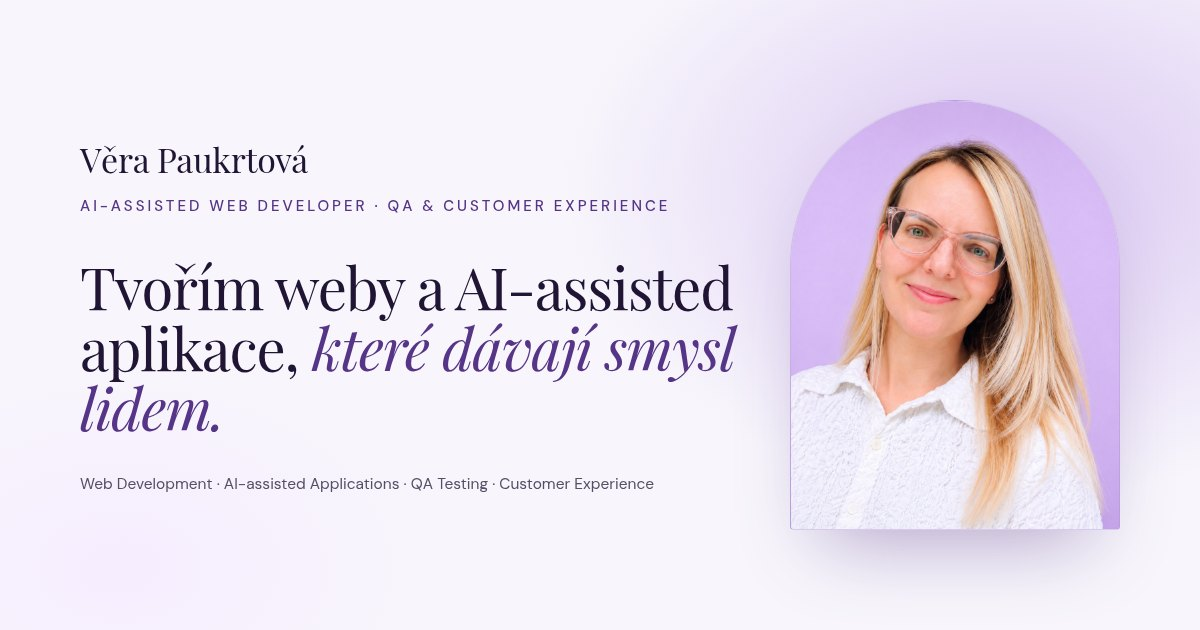
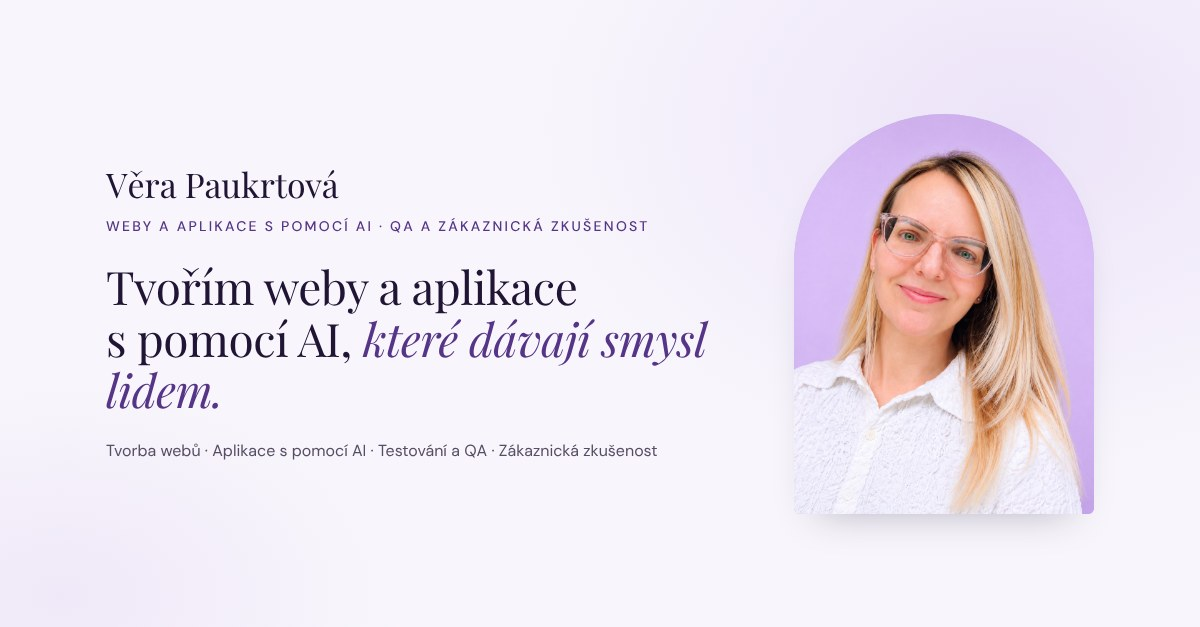
feat: upcoming section for Kompleto, Czech OG image and meta, README case study, dependency fixes
- move Kompleto under a new 'Připravuju' heading, without the status badge
- og:image 1200x627 with content in the safe zone, Czech title and description
- README rewritten as a case study
- bun audit fix (in-range updates only)

Claude-Session: https://claude.ai/code/session_01QY5tjJw5qp2WhKUxUQ9XU1

diff --git a/src/components/site/Projects.tsx b/src/components/site/Projects.tsx
@@ -63,7 +63,7 @@ function Preview({ project }: { project: Project }) {
           <span aria-hidden className="size-2.5 rounded-full bg-lilac" />
           <span aria-hidden className="size-2.5 rounded-full bg-line" />
           <span className="ml-3 truncate text-xs text-muted-foreground">
-            {project.url ? project.url.replace(/^https?:\/\//, "") : project.statusLabel}
+            {project.url ? project.url.replace(/^https?:\/\//, "") : project.name}
           </span>
         </div>
         <div className="aspect-[16/10] overflow-hidden">
@@ -118,20 +118,18 @@ function ProjectCard({ project, index }: { project: Project; index: number }) {
       </div>
 
       <div className={cn("lg:col-span-5", flip && "lg:order-1")}>
-        <div className="flex flex-wrap items-center gap-3">
-          <span className="font-display text-sm text-primary italic">{String(index + 1).padStart(2, "0")}</span>
-          <span
-            className={cn(
-              "inline-flex items-center gap-1.5 rounded-full px-2.5 py-1 text-xs font-medium",
-              concept ? "border border-dashed border-primary/50 text-primary" : "bg-lilac text-primary",
-            )}
-          >
-            {!concept && <span className="size-1.5 rounded-full bg-violet" aria-hidden />}
-            {project.statusLabel}
-          </span>
-        </div>
+        {/* Upcoming projects sit under their own heading, so they get no number or status badge. */}
+        {!concept && (
+          <div className="flex flex-wrap items-center gap-3">
+            <span className="font-display text-sm text-primary italic">{String(index + 1).padStart(2, "0")}</span>
+            <span className="inline-flex items-center gap-1.5 rounded-full bg-lilac px-2.5 py-1 text-xs font-medium text-primary">
+              <span className="size-1.5 rounded-full bg-violet" aria-hidden />
+              {project.statusLabel}
+            </span>
+          </div>
+        )}
 
-        <h3 id={`project-${project.id}`} className="font-display mt-4 text-4xl text-foreground sm:text-5xl">
+        <h3 id={`project-${project.id}`} className={cn("font-display text-4xl text-foreground sm:text-5xl", !concept && "mt-4")}>
           {project.name}
         </h3>
         <p className="eyebrow mt-3 leading-relaxed text-muted-foreground">{project.kind}</p>
@@ -211,16 +209,30 @@ function ProjectCard({ project, index }: { project: Project; index: number }) {
 export function Projects() {
   const { t } = useI18n();
   const p = t.projects;
+  const live = p.items.filter((project) => project.status !== "concept");
+  const upcoming = p.items.filter((project) => project.status === "concept");
   return (
     <section id="projekty" className="relative py-20 sm:py-28">
       <div aria-hidden className="pointer-events-none absolute inset-x-0 top-0 h-[40rem] bg-aura opacity-50" />
       <div className="relative mx-auto max-w-7xl px-5 sm:px-8">
         <SectionHeading index={p.index} label={p.label} title={p.title} intro={p.intro} />
         <div className="mt-14 grid gap-8 sm:mt-16 sm:gap-10">
-          {p.items.map((project, i) => (
+          {live.map((project, i) => (
             <ProjectCard key={project.id} project={project} index={i} />
           ))}
         </div>
+        {upcoming.length > 0 && (
+          <div className="mt-20 sm:mt-24">
+            <Reveal>
+              <h3 className="font-display text-3xl text-foreground sm:text-4xl">{p.upcomingTitle}</h3>
+            </Reveal>
+            <div className="mt-8 grid gap-8 sm:mt-10 sm:gap-10">
+              {upcoming.map((project, i) => (
+                <ProjectCard key={project.id} project={project} index={i} />
+              ))}
+            </div>
+          </div>
+        )}
       </div>
     </section>
   );

diff --git a/src/content/site.ts b/src/content/site.ts
@@ -76,9 +76,9 @@ const highlights = ["Web Development", "AI-assisted Applications", "QA Testing",
 
 const cs = {
   meta: {
-    title: "Věra Paukrtová — weby a AI aplikace | QA a zákaznická zkušenost",
+    title: "Věra Paukrtová – weby a aplikace s pomocí AI | QA a zákaznická zkušenost",
     description:
-      "Věra Paukrtová tvoří weby a AI-assisted aplikace a propojuje je s praxí z QA, UAT testování a zákaznické zkušenosti. Projekty CVéčko a Český král.",
+      "Věra Paukrtová tvoří weby a aplikace s pomocí AI a propojuje je s praxí z QA, UAT testování a zákaznické zkušenosti. Projekty CVéčko a Český král.",
   },
   skipLink: "Přeskočit na obsah",
   nav: [
@@ -128,6 +128,7 @@ const cs = {
   projects: {
     index: "01",
     label: "Projekty",
+    upcomingTitle: "Připravuju",
     title: ["Aplikace, které", "si můžete vyzkoušet."],
     intro:
       "Píšu prompty, navrhuji logiku, testuji v Playwrightu a nasazuji na Railway. Nejvíc mě baví začátek, kdy se z myšlenky stává něco skutečného — a pak postupné dolaďování, dokud to není přesně takové, jaké to chci mít.",
@@ -378,6 +379,7 @@ const en: SiteContent = {
   projects: {
     index: "01",
     label: "Projects",
+    upcomingTitle: "In the works",
     title: ["Apps you can", "try for yourself."],
     intro:
       "I write the prompts, design the logic, test with Playwright and deploy on Railway. What I love most is the very beginning, when an idea turns into something real — and then the gradual fine-tuning until it's exactly what I want.",

diff --git a/src/routes/index.tsx b/src/routes/index.tsx
@@ -26,8 +26,8 @@ export const Route = createFileRoute("/")({
       { property: "og:url", content: pageUrl },
       { property: "og:image", content: ogImage },
       { property: "og:image:width", content: "1200" },
-      { property: "og:image:height", content: "630" },
-      { property: "og:image:alt", content: "Věra Paukrtová — AI-assisted Web Developer | QA & Customer Experience" },
+      { property: "og:image:height", content: "627" },
+      { property: "og:image:alt", content: "Věra Paukrtová – weby a aplikace s pomocí AI, QA a zákaznická zkušenost" },
       { property: "og:locale", content: "cs_CZ" },
       { property: "profile:first_name", content: "Věra" },
       { property: "profile:last_name", content: "Paukrtová" },

diff --git a/README.md b/README.md
@@ -1,40 +1,61 @@
-# Vera Paukrtova Career Canvas
+# Věra Paukrtová – osobní web
 
-Vytvoř pro mě prémiový, moderní a plně responzivní osobní kariérní web a interaktivní CV podle přiloženého zadání v souboru Vytvoř pro mě prémiový, moderní a plně (pasted).md.
+Živý web: **https://verapaukrtova.cz**
 
-Jako hlavní vizuální inspiraci a barevnou identitu použij můj současný web (https://vera-paukrtova-portfolio.ovoiddream4.chatgpt.site/). Z jeho CSS byly úspěšně načteny tyto přesné barvy a hodnoty, které striktně zachovej:
-- Pozadí (--paper): #F8F6FC
-- Hlavní text a tmavé prvky (--ink): #211535
-- Ztlumený text (--muted): #574e65
-- Akcentní barva (--accent): #563588
-- Linky a oddělovače (--line): #E0D8ED
-- Karty a podbarvení: světlé #EEE5F8, tmavé kontrastní #272038
-- Fialové přechody a hover: #8257C2, jemné tóny #F6EDFF až #CDB4ED
+## Co to je a pro koho
 
-Nový web má být výrazně propracovanější, elegantnější, ženský a prémiový, ale musí stále působit jako pokračování mé původní osobní značky.
-Zachovej vysoký kontrast, čistou typografii (nadpisy v elegantním serifu Playfair Display, texty Inter nebo DM Sans), moderní rozvržení, velkorysý whitespace a jemné animace. Ženskosti dosáhni především typografií, proporcemi a detaily, nikoliv přidáváním růžových barev.
+Osobní portfolio na jedné stránce: projekty, přístup k práci, zkušenosti, vzdělání a kontakt. Slouží lidem, kteří zvažují spolupráci na webu nebo aplikaci, a pro spolupráci ve Vibecoding Akademii. Každý projekt má odkaz na živou verzi, takže si ho lze rovnou vyzkoušet.
 
-Kompletní strukturu obsahu, texty, projekty (Český král, Cvéčko, Kompleto), zkušenosti (Allegro, T-Mobile, Zentiva, Ipsos, Megatech Industries) a dovednosti převezmi z přiloženého souboru zadání. Vytvoř čistý frontend bez zbytečného backendu nebo databáze pro minimální spotřebu kreditů.
+## Výchozí stav
 
-This project was built with [Lovable](https://lovable.dev).
+- Web vznikl v nástroji Lovable a běžel jen na dočasné doméně Lovable.
+- V textech zůstávaly zástupné texty (placeholdery) a nevyplněná místa.
+- Kontakt řešil starý formulář.
+- Na vlastní doméně běžela jiná, starší verze než v editoru, takže existovaly dvě verze webu.
 
-**Live app**: https://verapaukrtova.cz
+## Co jsem udělala
 
-## Build with Lovable
+- **Vlastní doména:** verapaukrtova.cz běží na Vercelu a nasazuje se z větve `main` tohoto repozitáře. Existuje jen jedna verze webu.
+- **Čeština napevno:** přepínač CZ/EN je odstraněný, web je jen česky.
+- **Kontakt:** místo formuláře dvě tlačítka, „Napište mi e-mail“ a „LinkedIn“. Na mobilu jsou pod sebou a dost velká na prst.
+- **SEO a sdílení:** `canonical` a `og:url` vedou na https://verapaukrtova.cz/. Titulek, popis i náhledový obrázek (1200×627 px) jsou česky.
+- **Mobil a přístupnost:** tlačítka a odkazy jsou dost velké na prst, nic nepřetéká do strany. Odkazy mimo web se otevírají v novém okně a čtečky obrazovky to oznámí.
+- **Kontrola axe:** automatický test přístupnosti (WCAG 2 A/AA) bez nálezů na mobilu, tabletu i počítači.
+- **Bez zástupných textů:** obsah žije v jednom souboru a neznámé údaje se nedoplňují vymyšlenými hodnotami.
 
-Continue developing this project in the [Lovable editor](https://lovable.dev/projects/01bb0ace-cce0-45b1-8436-10d11531e513).
+## Jak pracuju
 
-- **Ship faster**: describe what you want to build and Lovable handles the code.
-- **Stay in sync**: every change made in Lovable is committed straight to this repository.
-- **Full ownership**: this code is yours. Push to `main` on GitHub and your changes sync back into Lovable, ready for your next prompt.
+- **Pravidla v `CLAUDE.md`:** například žádné placeholdery v UI, web jen česky, náhledový obrázek 1200×627 px s textem v bezpečné zóně.
+- **Postup změn:** feature větev → pull request → náhled na Vercelu → kontrola → sloučení do `main` → nasazení na verapaukrtova.cz.
+- **Testování před sloučením:**
+  - web v prohlížeči na mobilu (375 px), tabletu (768 px) a počítači (1440 px);
+  - konzole bez chyb, žádné rozbité odkazy ani obrázky;
+  - kontrola přístupnosti axe;
+  - automatické testy obsahu (Vitest) a build.
 
-## Development
+## Bezpečnost
 
-Prefer working locally? You need Node.js and npm — [install with nvm](https://github.com/nvm-sh/nvm#installing-and-updating).
+- Dvoufázové ověření (2FA) na GitHubu i na Vercelu.
+- V repozitáři nejsou žádné klíče ani hesla.
+- Pravidelný audit závislostí (`npm audit` / `bun audit`). Opravy jen v rámci povolených verzí, bez vynucených skoků na nové hlavní verze.
+- Kontakt na autorku: paukrtovavera@seznam.cz
+
+## Stack
+
+- [TanStack Start](https://tanstack.com/start) (React 19, TanStack Router), Vite 8, Nitro
+- TypeScript
+- Tailwind CSS 4, shadcn/ui (Radix UI), ikony lucide-react
+- Vitest a Testing Library, ESLint a Prettier
+- Správa balíčků přes bun (`bun.lock`)
+- Hosting Vercel, úpravy obsahu i v editoru Lovable
+
+## Spuštění u sebe
 
 ```sh
-git clone <this-repository-url>
-cd <repository-name>
-npm i
-npm run dev
+bun install
+bun run dev      # vývojový server
+bun run test     # testy
+bun run build    # produkční build
 ```
+
+Texty, projekty, zkušenosti a odkazy jsou v `src/content/site.ts`. Komponenty v `src/components/site/` je jen vykreslují.

diff --git a/CLAUDE.md b/CLAUDE.md
@@ -7,4 +7,5 @@
 - Před každým push na main otestuj web přes Chrome DevTools MCP.
 - Zakázaný je jen odkaz „vera-paukrtova-career-canvas.lovable.app“; ostatní lovable.app projekty jsou povolené.
 - Web je jen česky (přepínač CZ/EN odstraněn 2026-11-17).
+- og:image 1200×627, text v bezpečné zóně, česky.
 - Živnost je pozastavená – na webu žádné IČO, ceny ani objednávky.
